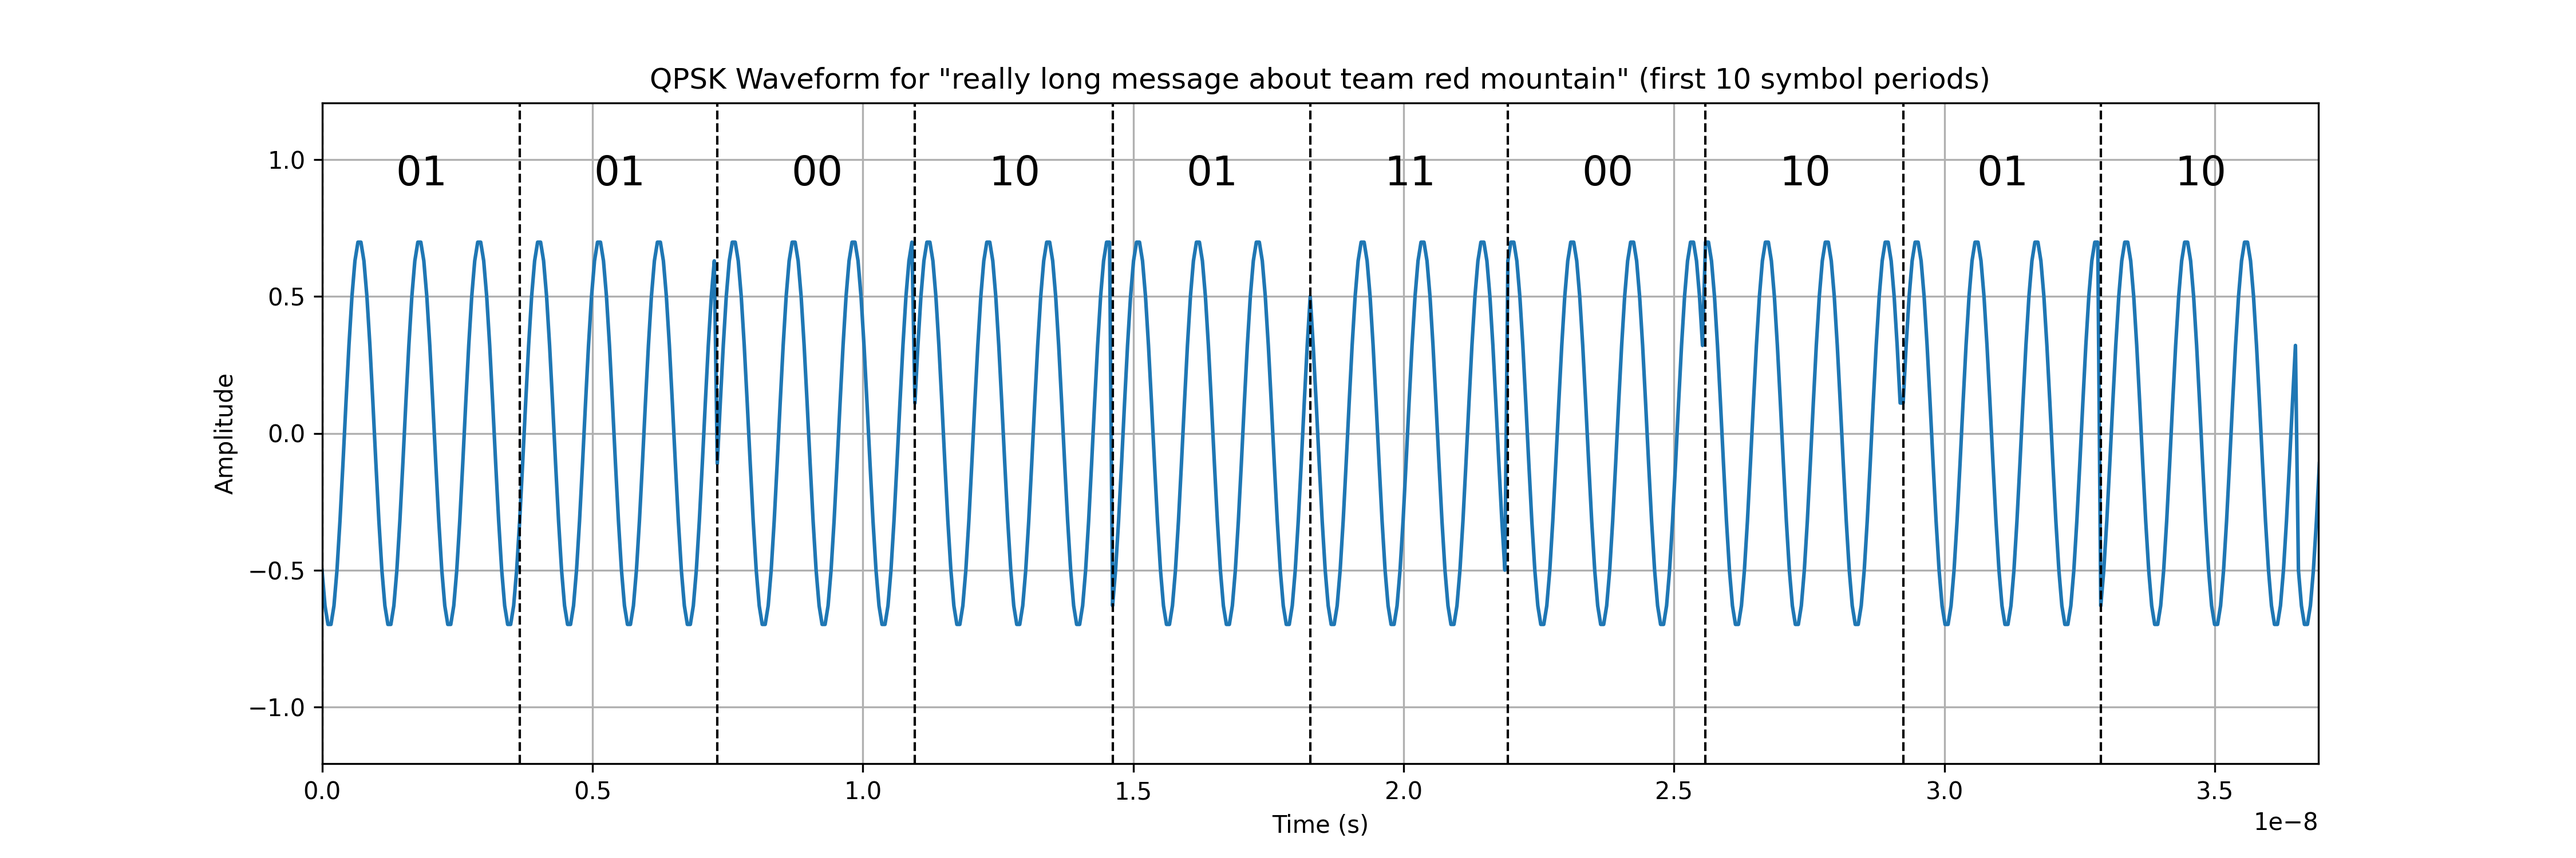
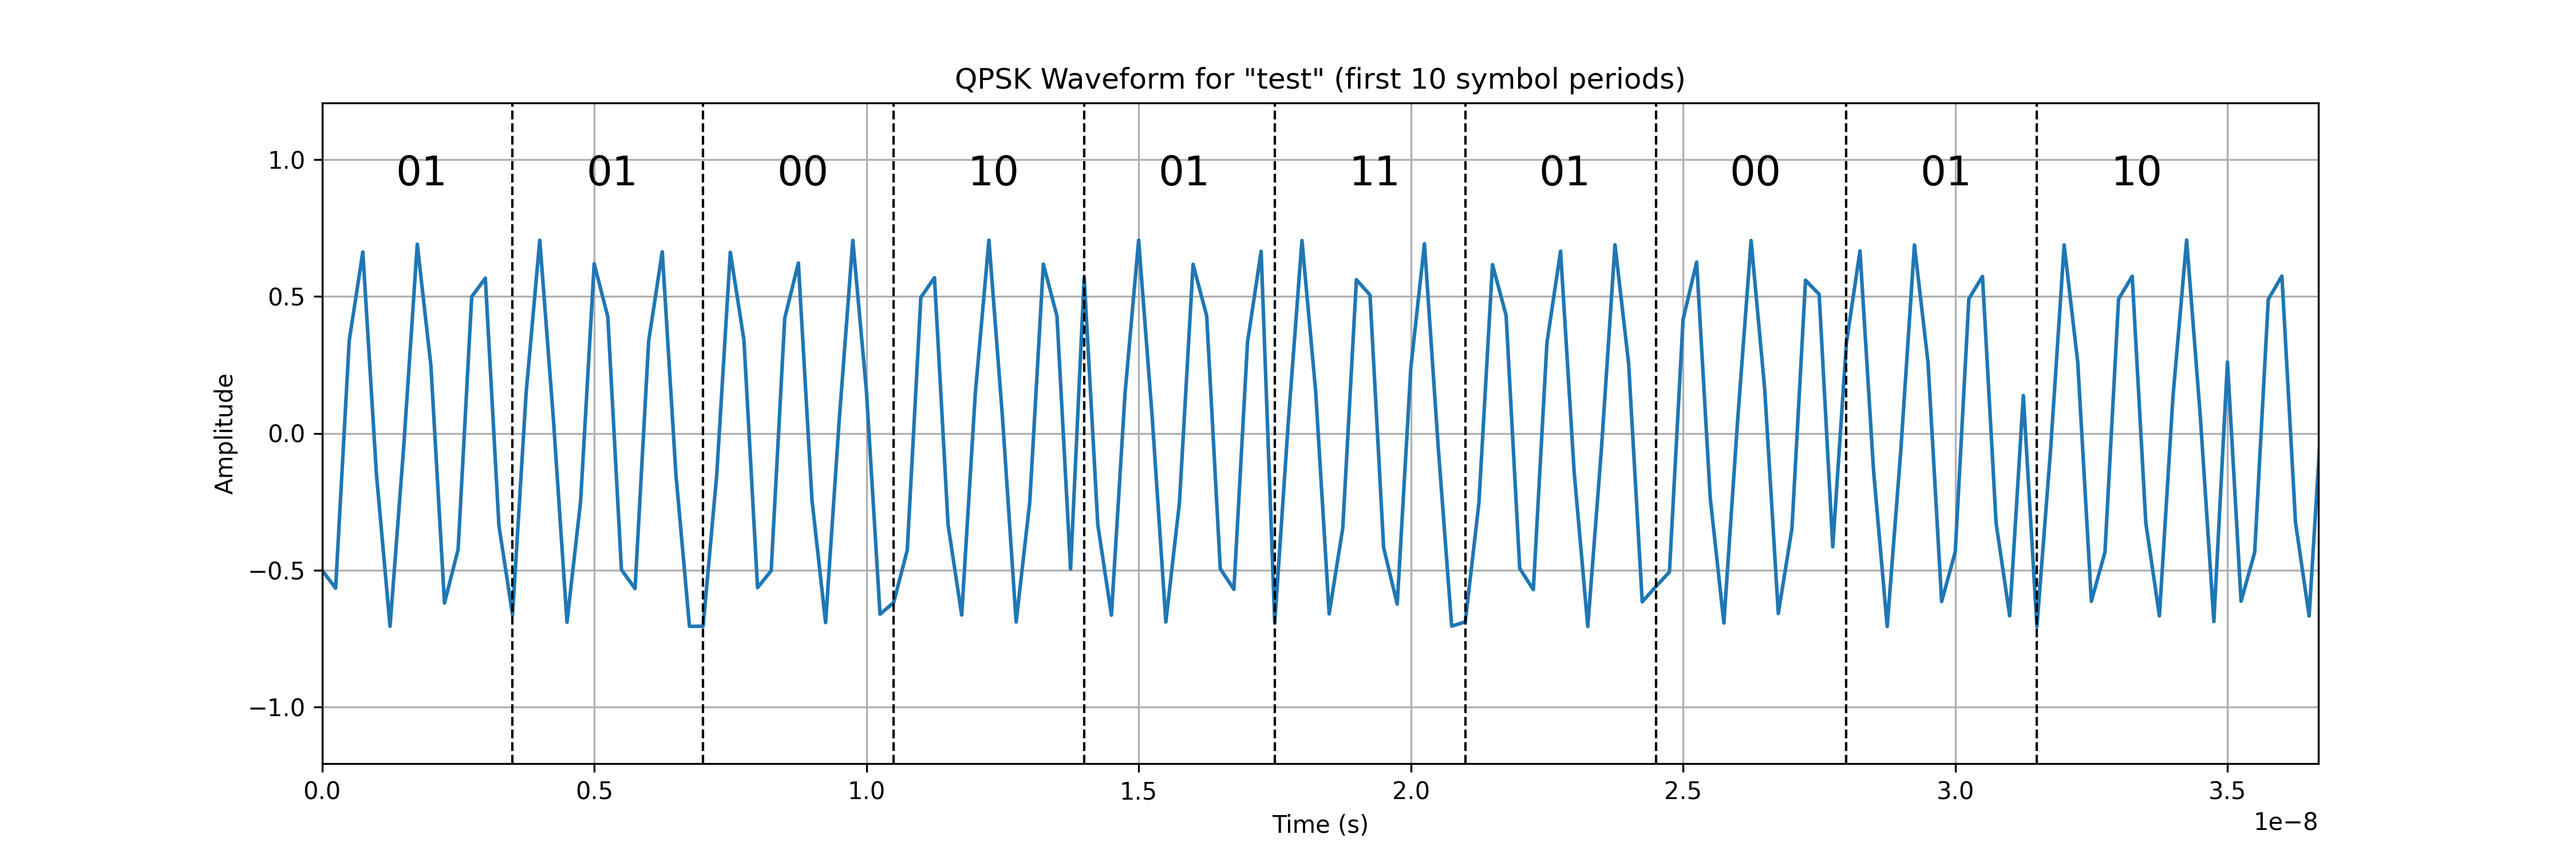
push to main.py

diff --git a/Phys_Sim/main.py b/Phys_Sim/main.py
@@ -138,7 +138,7 @@ def simulate_page():
                     global message_input
                     sig_gen.freq = int(freq_in_slider.value)* 1e6  # Convert MHz to Hz
                     #sig_gen.sample_rate = 20 * sig_gen.freq  # Example sample rate 20 times the frequency
-                    #sig_gen.symbol_rate = 0.3 * sig_gen.freq  # Example symbol rate 30% of the frequency
+                    sig_gen.symbol_rate = 0.3 * sig_gen.freq  # Example symbol rate 30% of the frequency
                     message_input = message.value
                     #save graphs:
                     #run the method to generate the QPSK waveform
